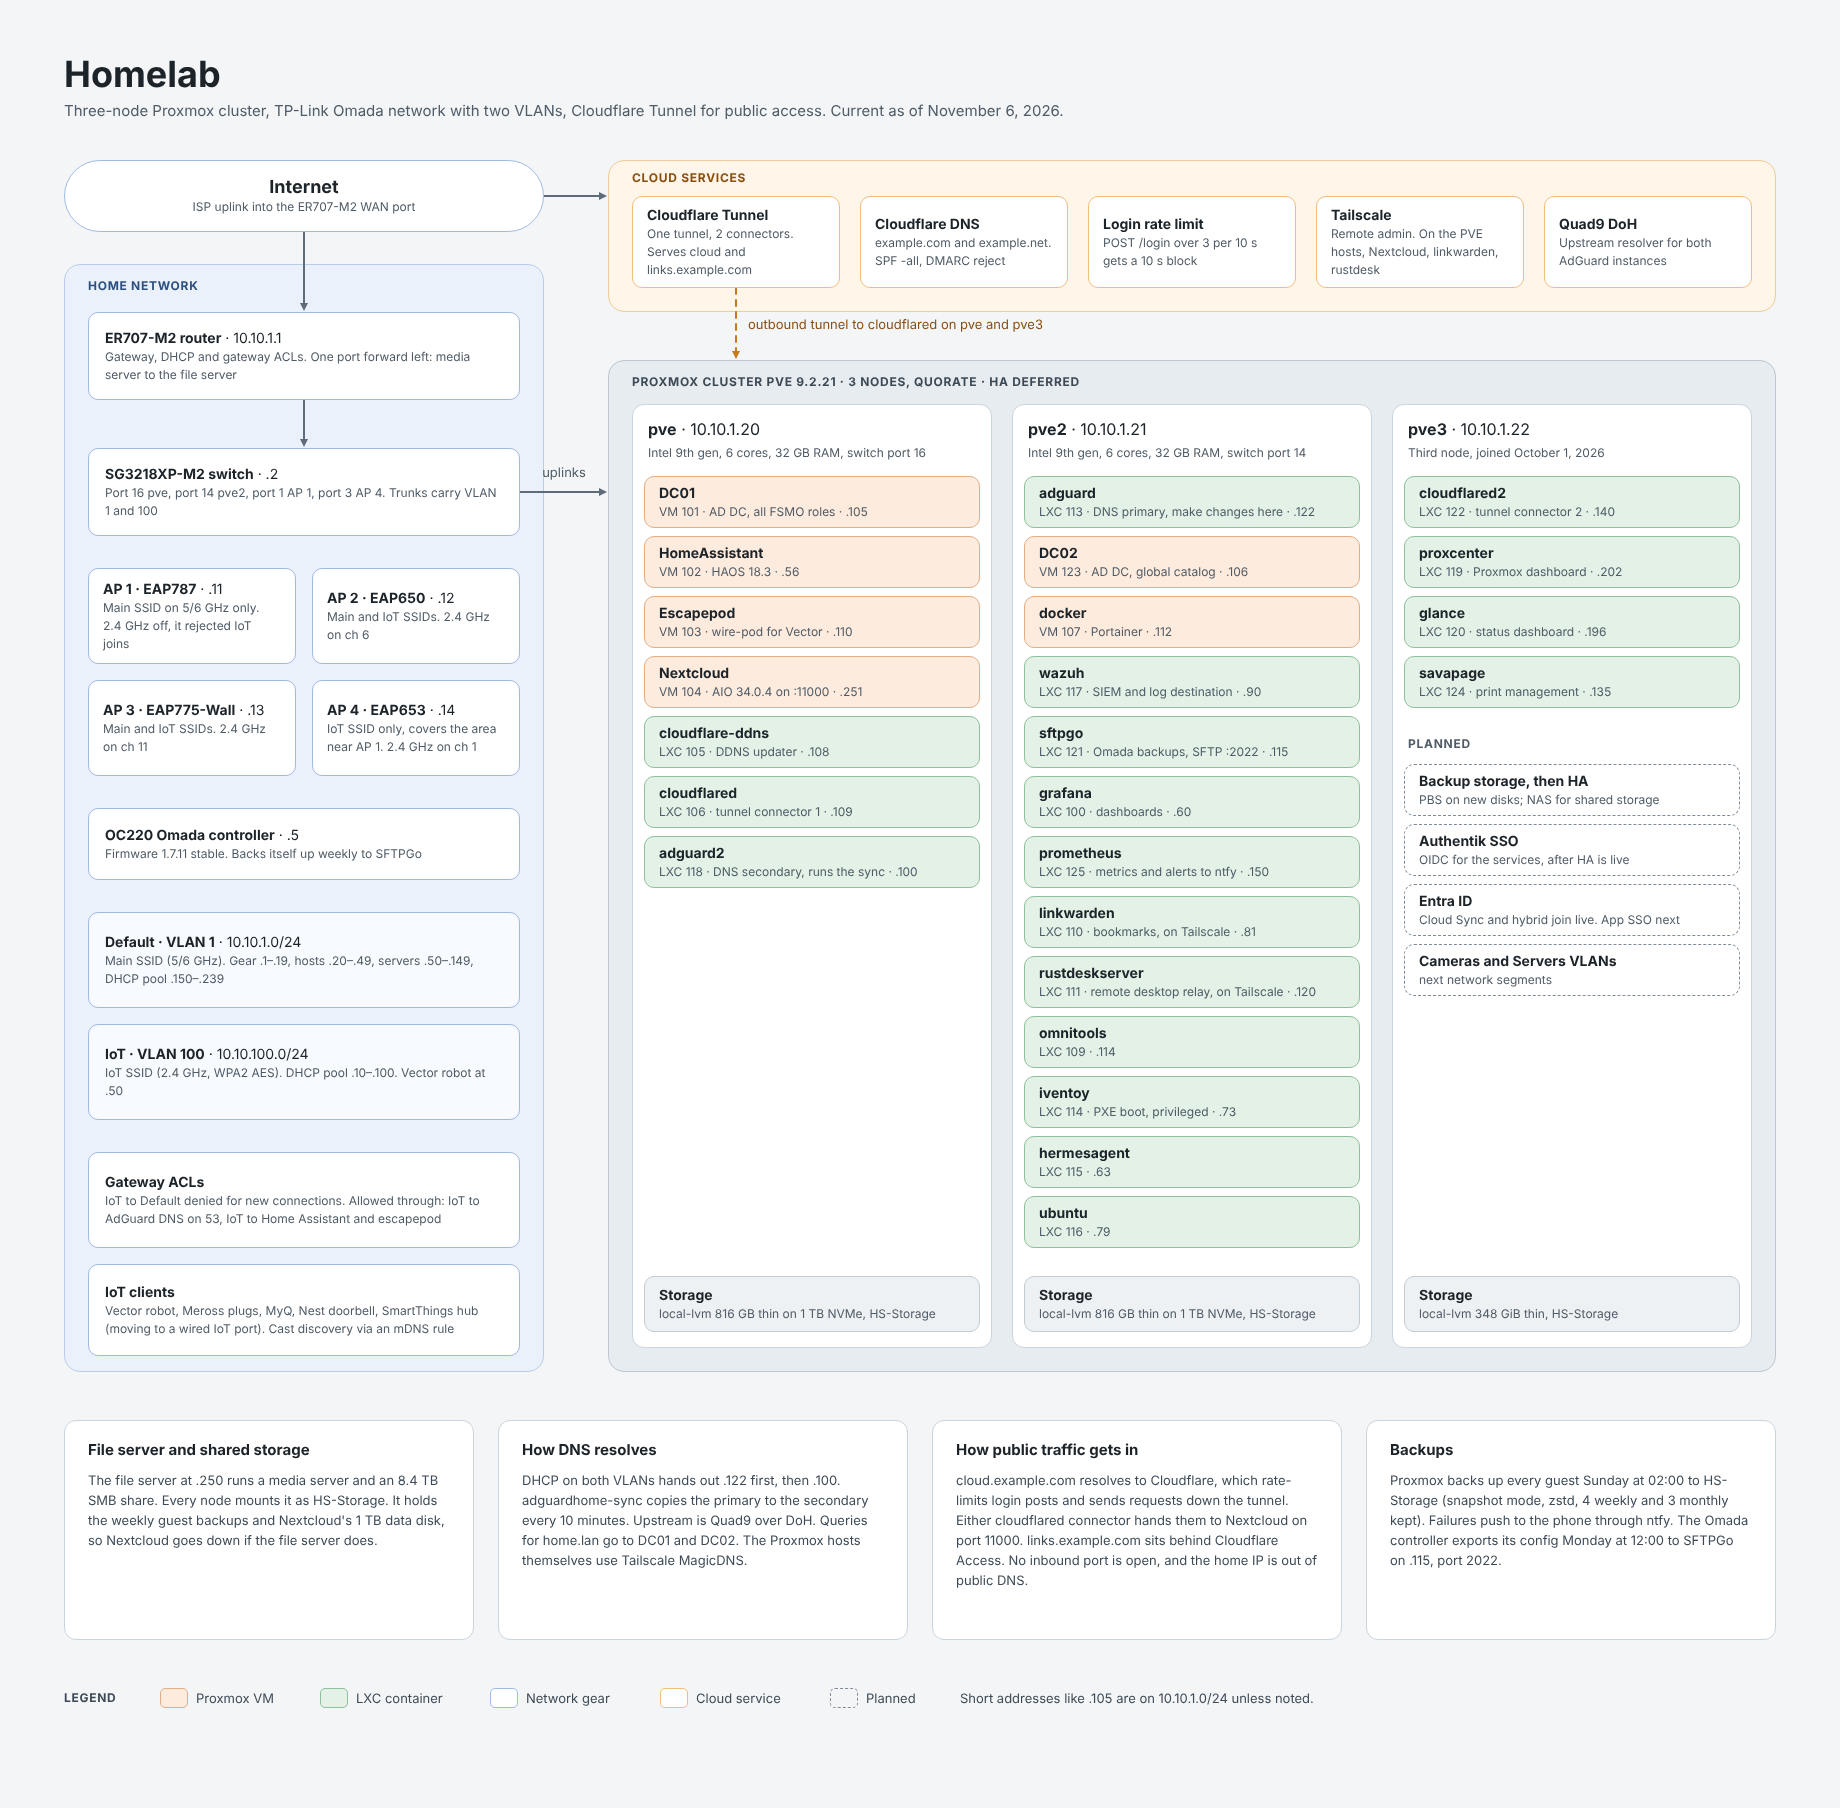
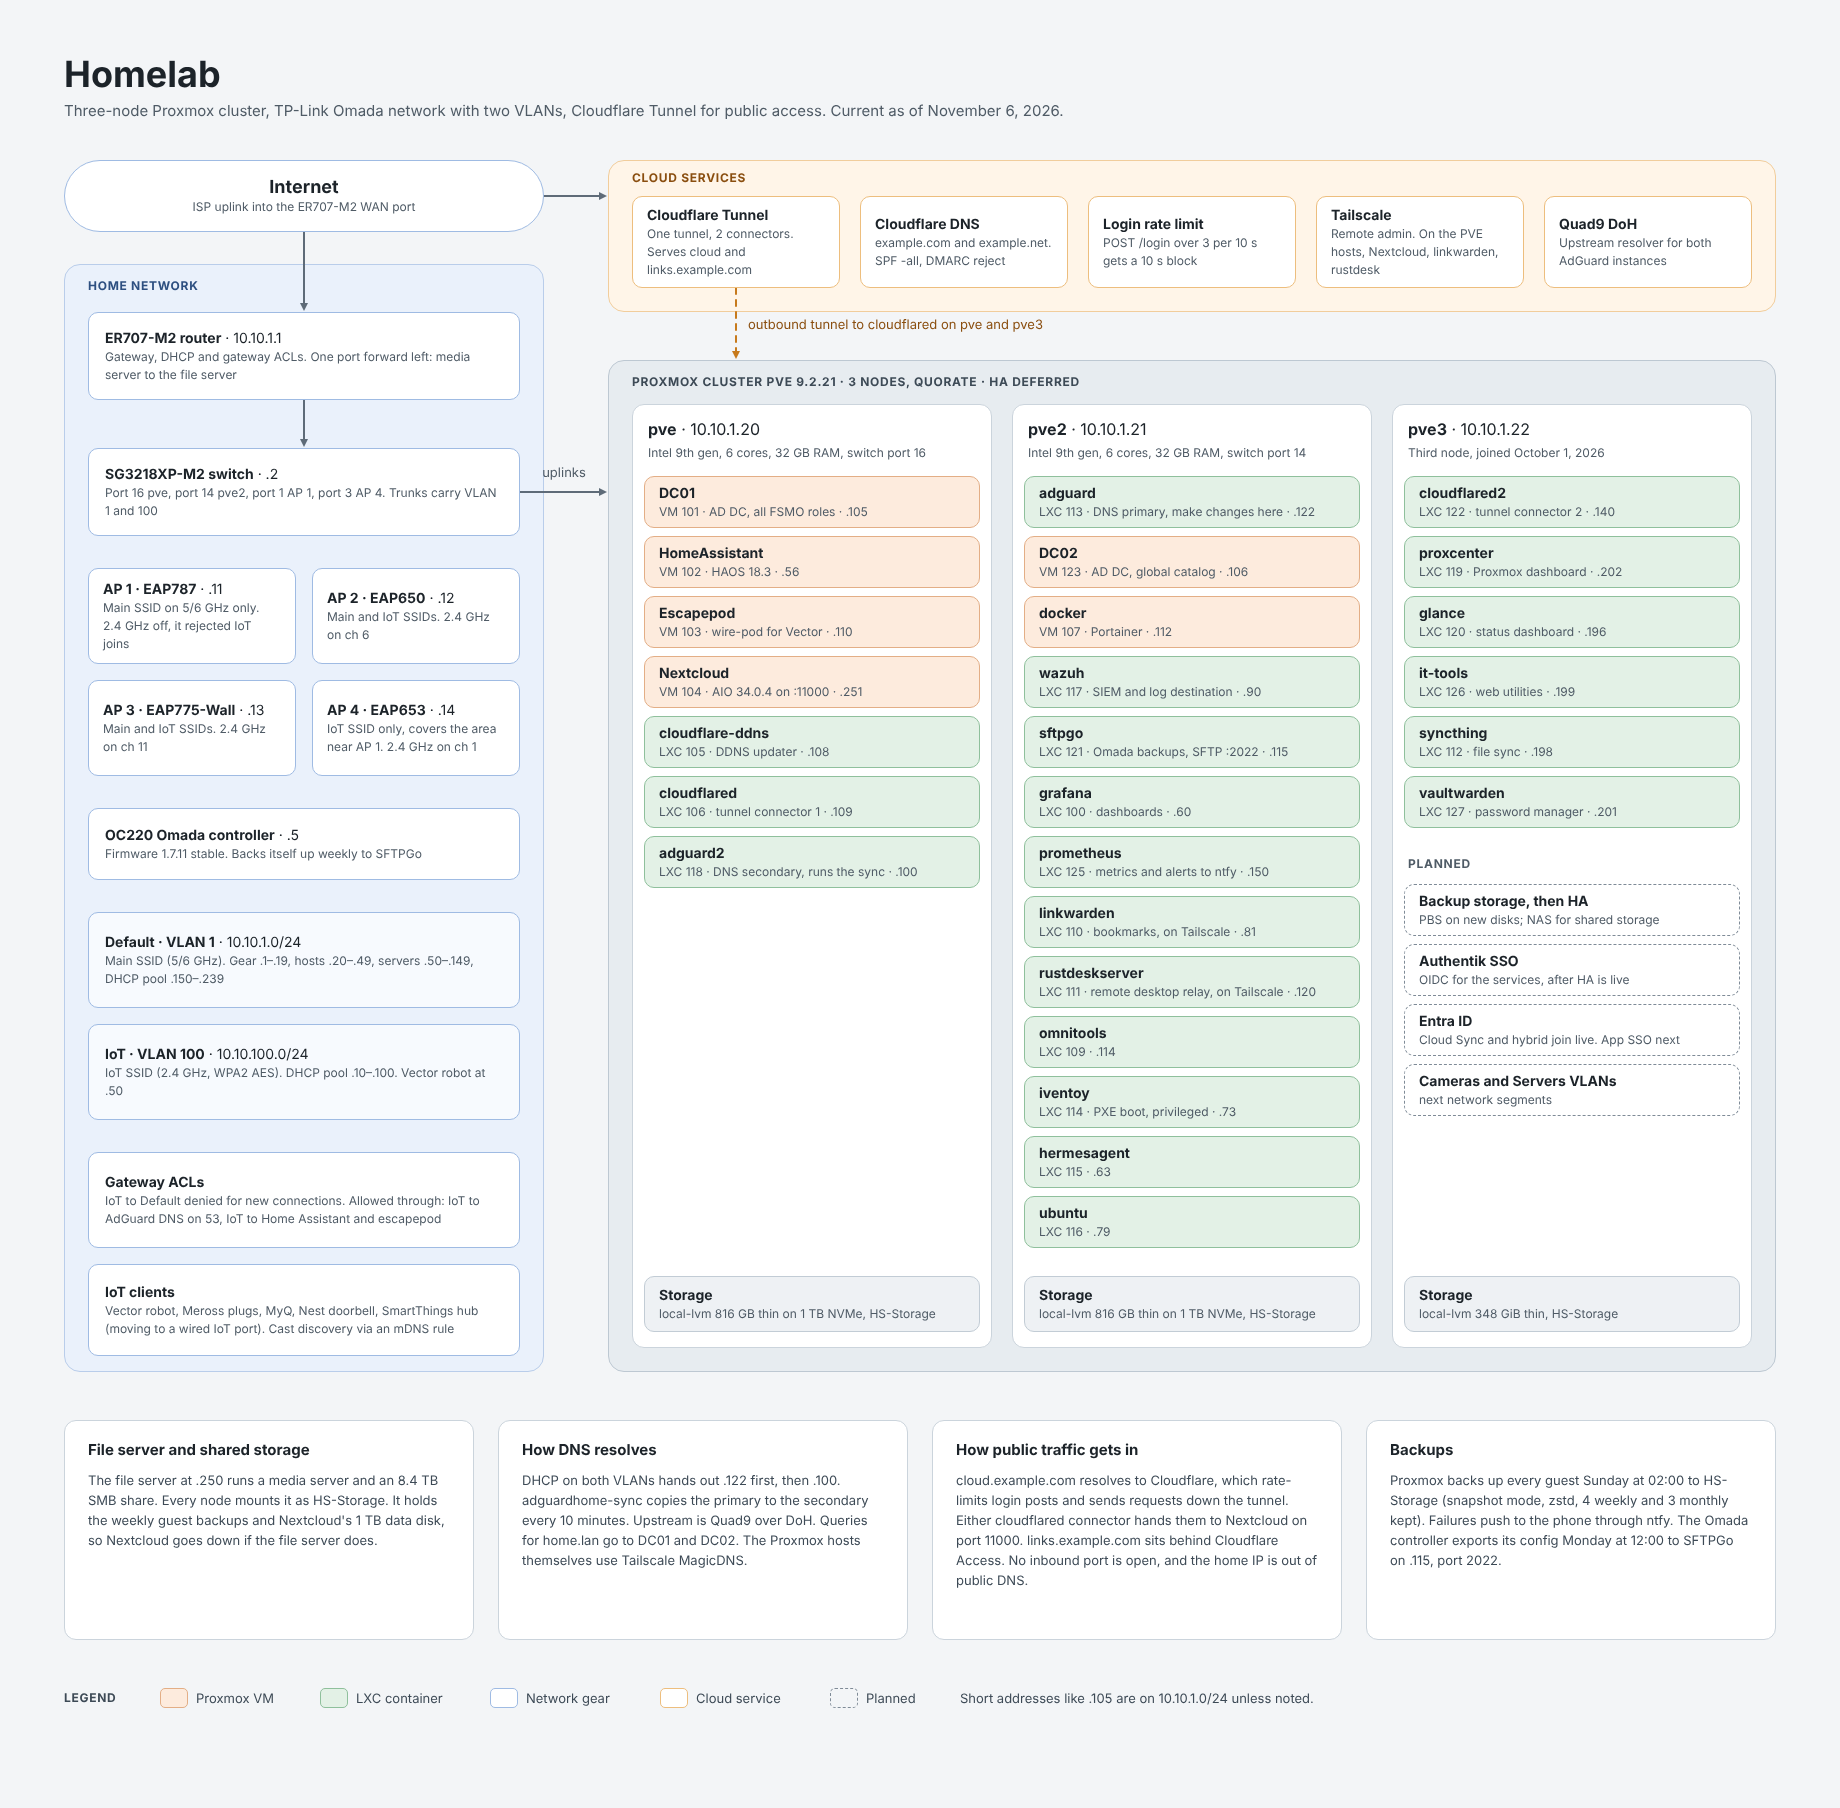
Remove deleted guests, add it-tools, syncthing and vaultwarden
Splunk, Homepage and SavaPage are deleted. New pve3 containers added to the guest list, IP plan, diagram and changelog. Their reservations sit in the DHCP pool and are flagged with the others.

Changed region(s): [[0.7435, 0.3717, 0.9603, 0.6195]]

diff --git a/docs/proxmox/guests.md b/docs/proxmox/guests.md
@@ -23,7 +23,6 @@ Default pattern is an unprivileged Debian LXC. VMs only where the OS demands it 
 | 109 | omnitools | LXC | 2c / 2 GB | 8 GB | .114 | |
 | 110 | linkwarden | LXC, Ubuntu | 2c / 4 GB | 12 GB | .81 | on Tailscale and behind Cloudflare Access ([notes](../apps/linkwarden.md)) |
 | 111 | rustdeskserver | LXC | 1c / 512 MB | 2 GB | .120 | TUN passthrough for Tailscale |
-| 112 | homepage | LXC | 2c / 4 GB | 6 GB | .74 | Retired, replaced by Glance |
 | 113 | adguard | LXC | 1c / 512 MB | 10 GB | .122 | AdGuard Home primary |
 | 114 | iventoy | LXC, privileged | 1c / 512 MB | about 21 GB reported | .73 | full device access for PXE/USB; disk growth not yet explained |
 | 115 | hermesagent | LXC | 2c / 4 GB | 20 GB | .63 | |
@@ -37,18 +36,18 @@ Default pattern is an unprivileged Debian LXC. VMs only where the OS demands it 
 
 | ID | Name | Type | CPU / RAM | Disk | Address | Notes |
 |---|---|---|---|---|---|---|
-| 108 | splunk | LXC | 4c / 8 GB | about 39 GB | .50 | Retired, Wazuh replaces it ([notes](../apps/splunk.md)) |
 | 119 | proxcenter | LXC | 2c / 6 GB | about 9 GB | .202 | Proxmox dashboard ([notes](../monitoring/dashboards.md#proxcenter)) |
 | 120 | glance | LXC | 1c / 512 MB | about 1 GB | .196 | Glance dashboard ([notes](../monitoring/dashboards.md#glance)) |
 | 122 | cloudflared2 | LXC | 1c / 512 MB | 2 GB | .140 | Tunnel connector 2, restored from 106's backup |
-| 124 | savapage | LXC, Debian 13 | 2c / 4 GB | 16 GB | .135 | SavaPage print management ([notes](../apps/savapage.md)) |
+| 112 | syncthing | LXC | | | .198 | Syncthing file sync. VMID 112 was Homepage. |
+| 126 | it-tools | LXC | | | .199 | IT-Tools web utilities |
+| 127 | vaultwarden | LXC | | | .201 | Vaultwarden password manager |
 
 ## Notes
 
 - Load leans toward pve (about 22 of 31 GB RAM used versus 7 on pve2 at one count). pve3 has room, but it's the smallest node at 15.3 GB of RAM.
-- pve3's guests are allocated about 19 GB against its 15.3 GB. LXC memory limits are caps, not reservations, and real use was about 28%. Retiring Splunk frees 8 GB of that allocation.
-- VMIDs 119 and 120 were reused on pve3 after the Pterodactyl containers were deleted.
+- VMIDs 119 and 120 were reused on pve3 after the Pterodactyl containers were deleted, and 112 after Homepage. 108 and 124 are free; the next new ID is 128.
 - iventoy is privileged with `devices.allow a` and cleared `cap.drop`. It works, but it's the least isolated guest here and an open item.
 - LXCs that run Tailscale need the TUN device passed through in `/etc/pve/lxc/<id>.conf`.
 - QEMU guest agent is on for every VM. Without it Proxmox can't shut a VM down cleanly or report its IPs.
-- Pterodactyl panel and wings were built for a game server and later deleted.
+- Deleted: Pterodactyl panel and wings (game server, 2026-10-01); Homepage (112, replaced by Glance), Splunk (108, replaced by Wazuh) and SavaPage (124) in early November.

diff --git a/docs/open-items.md b/docs/open-items.md
@@ -22,7 +22,7 @@
 
 - Backups to the CIFS share keep failing ([details](proxmox/storage-and-backups.md#backup-failures-on-the-cifs-share)). Get Escapepod a backup, split the job per node, and find out why the file server returns I/O errors.
 - Pick a storage option ([options](proxmox/storage-and-backups.md#storage-plan-not-decided)). Nextcloud's data disk has no backup until then.
-- Delete Splunk (108) and Homepage (112), and clear `onboot` on anything stopped on purpose so GuestStopped stays quiet.
+- Clear `onboot` on anything stopped on purpose so GuestStopped stays quiet.
 - Find out why iventoy reports about 21 GB of disk.
 - Confirm the e1000e offload fix holds on pve. Delete the old journal copy in `/root` when no longer needed.
 - Decide what the `ubuntu` scratch container (116) is for, or retire it.
@@ -33,7 +33,7 @@
 
 ## Monitoring
 
-- Move prometheus, glance and proxcenter reservations out of the DHCP pool ([details](network/ip-plan.md#reservations-that-broke-the-rule)).
+- Move the six reservations that sit in the DHCP pool (prometheus, glance, proxcenter, it-tools, syncthing, vaultwarden) into the server range ([details](network/ip-plan.md#reservations-that-broke-the-rule)).
 - Check the cloudflared connectors from outside (an HTTP probe of a public hostname, or the tunnel's metrics port).
 - Forward Wazuh level 10 alerts to ntfy so rule 100100 pages the phone.
 - Omada syslog: confirm the AP traffic flood stopped and gateway DHCP lines still arrive; add rules for controller site events, admin logins and WAN events.
@@ -55,7 +55,7 @@
 
 ## Apps
 
-- SavaPage: Windows test, key backup, certificate by GPO, block direct printing, client rollout script ([details](apps/savapage.md#still-to-do)).
+- Clean up SavaPage leftovers in AD (service account, security group, DNS record) if it isn't coming back.
 - Escapepod: confirm the DNS rewrite lets Vector reach wire-pod from the IoT VLAN; fall back to a hidden Default SSID on AP 4 if not.
 - Escapepod: build and test the recognition patch on a real robot.
 - Linkwarden: update `NEXTAUTH_URL` to the public hostname and restart the stack.

diff --git a/docs/network/ip-plan.md b/docs/network/ip-plan.md
@@ -22,13 +22,11 @@ DHCP pool .10 to .100. No reservations yet. Vector sits at .50 inside the pool a
 
 | Address | Host |
 |---|---|
-| .50 | splunk (retired) |
-| .52 | network printer (behind SavaPage) |
+| .52 | network printer |
 | .56 | Home Assistant (VM) |
 | .60 | grafana |
 | .63 | hermesagent |
 | .73 | iventoy |
-| .74 | homepage (retired) |
 | .79 | ubuntu (test LXC) |
 | .81 | linkwarden |
 | .90 | wazuh |
@@ -43,20 +41,22 @@ DHCP pool .10 to .100. No reservations yet. Vector sits at .50 inside the pool a
 | .115 | sftpgo (controller backups) |
 | .120 | rustdeskserver |
 | .122 | AdGuard Home primary |
-| .135 | savapage |
 | .140 | cloudflared2 (tunnel connector 2) |
 
 ## Reservations that broke the rule
 
-Three monitoring guests got reservations at the addresses they already had, which are inside the pool:
+Six guests got reservations at the addresses they already had, which are inside the pool:
 
 | Address | Host |
 |---|---|
 | .150 | prometheus |
 | .196 | glance |
+| .198 | syncthing |
+| .199 | it-tools |
+| .201 | vaultwarden |
 | .202 | proxcenter |
 
-They work, but they shrink the pool and break the plan. All three should move into .50 to .149. Prometheus is the one to move carefully: blackbox probes, the DCs' firewall rules for windows_exporter, Grafana's data source and Glance all point at .150.
+They work, but they shrink the pool and break the plan. All six should move into .50 to .149, where .50, .74 and .135 are free again after the deletions. Prometheus is the one to move carefully: blackbox probes, the DCs' firewall rules for windows_exporter, Grafana's data source and Glance all point at .150.
 
 ## Rules I follow
 

diff --git a/README.md b/README.md
@@ -16,7 +16,7 @@ All hostnames, domains, SSIDs and addresses in this repo are placeholders. The a
 | Directory | Active Directory on two Windows Server 2022 domain controllers, synced to Entra ID with Cloud Sync |
 | Monitoring | Prometheus and Alertmanager to ntfy, Grafana, Wazuh with Omada syslog, Glance and ProxCenter dashboards |
 | Remote access | Cloudflare Tunnel with two connectors, Cloudflare Access on selected apps, Tailscale for admin; no inbound web ports open |
-| Apps | Nextcloud AIO, Home Assistant, Linkwarden, SavaPage, Escapepod (wire-pod) and a handful of smaller LXC services |
+| Apps | Nextcloud AIO, Home Assistant, Linkwarden, Vaultwarden, Syncthing, IT-Tools, Escapepod (wire-pod) and a handful of smaller LXC services |
 
 ## Layout
 
@@ -32,7 +32,7 @@ docs/
   active-directory/   domain controllers, DC02 build, promotion failures
   identity/           Entra ID tenant, Cloud Sync, hybrid join, app SSO
   remote-access/      Cloudflare Tunnel and Access, Nextcloud AIO behind the tunnel
-  apps/               Escapepod (wire-pod), Linkwarden, SavaPage, Splunk (retired)
+  apps/               Escapepod (wire-pod), Linkwarden, SavaPage and Splunk (both deleted)
   runbooks/           repeatable procedures (adding a service)
   changelog.md        dated change log
   open-items.md       what's still unresolved

diff --git a/docs/apps/splunk.md b/docs/apps/splunk.md
@@ -1,6 +1,6 @@
-# Splunk Enterprise (retired)
+# Splunk Enterprise (deleted)
 
-Retired in favor of Wazuh, which now collects the logs ([Wazuh](../monitoring/wazuh.md)). Splunk used about 1.4 GB of its 8 GB allocation and had no other job. Backed up, stopped, and cleared for deletion once pve3's 2026-11-01 backup was confirmed good. These notes stay for the install bug.
+Retired in favor of Wazuh, which now collects the logs ([Wazuh](../monitoring/wazuh.md)). Splunk used about 1.4 GB of its 8 GB allocation and had no other job. Deleted after pve3's 2026-11-01 backup was confirmed good. These notes stay for the install bug.
 
 LXC 108 on pve3, 10.10.1.50, web UI on port 8000. Installed with the [community-scripts ProxmoxVE](https://github.com/community-scripts/ProxmoxVE) Splunk Enterprise helper.
 

diff --git a/docs/monitoring/overview.md b/docs/monitoring/overview.md
@@ -40,8 +40,8 @@ Alerts don't depend on Grafana, Glance or ProxCenter being up. They do depend on
 
 ## What was retired
 
-- Homepage (CT 112). Glance already covers everything it showed. Stopped, then cleared for deletion after the 2026-11-01 backup.
-- Splunk (CT 108). Wazuh is the log destination, so Splunk had no job left. Cleared for deletion once pve3's backup was confirmed good.
+- Homepage (CT 112). Glance already covers everything it showed. Deleted after the 2026-11-01 backup.
+- Splunk (CT 108). Wazuh is the log destination, so Splunk had no job left. Deleted once pve3's backup was confirmed good.
 
 ## Secrets
 

diff --git a/docs/apps/savapage.md b/docs/apps/savapage.md
@@ -1,4 +1,6 @@
-# SavaPage print management
+# SavaPage print management (deleted)
+
+The container was deleted in early November 2026 before the Windows rollout. These notes stay as a record of the install and its problems. If it comes back, the AD service account, security group and DNS record may need cleaning up or reusing.
 
 [SavaPage](https://www.savapage.org) 1.7.0 on pve3. Windows PCs print to a SavaPage queue instead of straight to the printer. Jobs land in each user's web inbox and get released from there.
 

diff --git a/docs/monitoring/dashboards.md b/docs/monitoring/dashboards.md
@@ -42,6 +42,6 @@ It had the same cluster added three times, once per node. Two were deleted, leav
 
 See [Prometheus](prometheus.md#grafana). Node Exporter Full, Proxmox via Prometheus, and Blackbox Exporter dashboards in a Homelab folder.
 
-## Homepage (retired)
+## Homepage (deleted)
 
-CT 112 on pve2. Glance does everything it did. Stopped on 2026-10-28 and cleared for deletion after the 2026-11-01 backup.
+CT 112 on pve2. Glance does everything it did. Stopped on 2026-10-28 and deleted after the 2026-11-01 backup.

diff --git a/docs/changelog.md b/docs/changelog.md
@@ -1,5 +1,10 @@
 # Changelog
 
+## 2026-11-06
+
+- Deleted Splunk (108), Homepage (112) and SavaPage (124).
+- Added it-tools, syncthing and vaultwarden containers on pve3.
+
 ## 2026-11-05
 
 - glance-helper replaces the calendar-only helper on the Glance container; adds homelab endpoints for alerts, temperatures, storage, backups, Home Assistant, Wazuh, the tunnel, Omada and certificate expiry.

diff --git a/docs/architecture.md b/docs/architecture.md
@@ -90,5 +90,4 @@ flowchart LR
   ad[AD home.lan<br/>DC01 + DC02] -->|Cloud Sync agent on DC02<br/>group-scoped, password hash sync| entra[Entra ID tenant]
   pcs[Domain PCs] -->|hybrid join| entra
   entra -->|OIDC, in progress| nc[Nextcloud]
-  ad -->|LDAP, SavaPage-Users group| sp[SavaPage]
 ```
